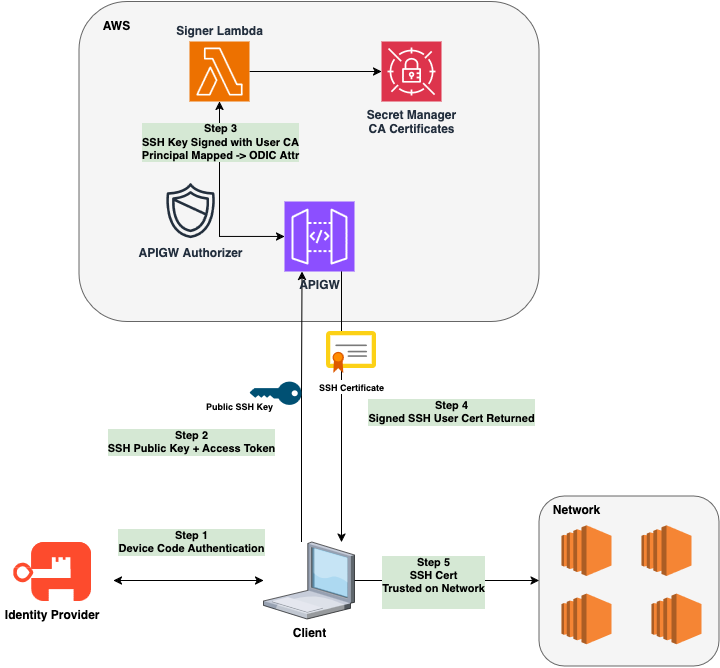
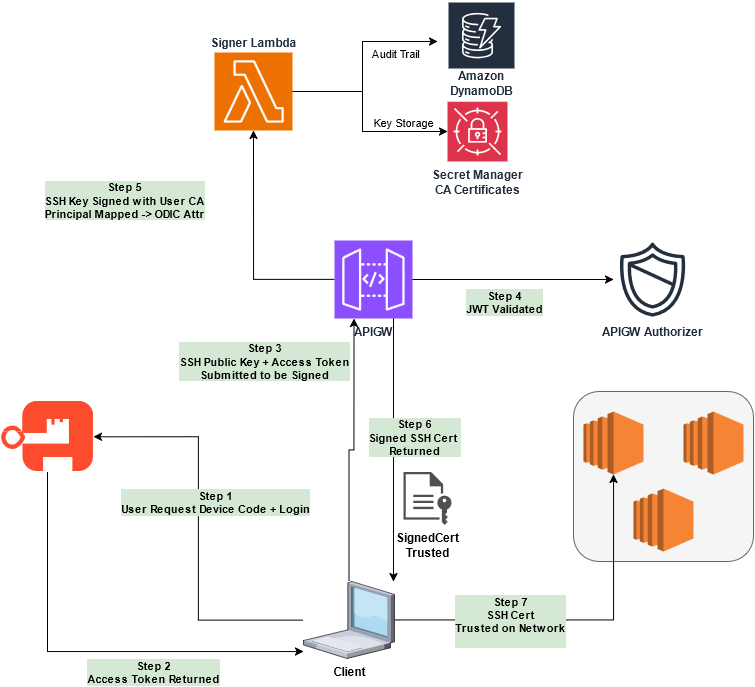
Add dynmodb audit trail (#8)
* init dynamodb audit

* add event

* add NewDb method

* add audit repo dep and use slog

* add new v2 deps

* rework write test

* adding dynamodb tf

* remove id generation. Using SUB Hash Key and SignedAt Sort Key

* update audit trail attr mapping

* add terraform provider

* fix add env var and table key name format

* update docs

* fmt

* Add mock repo for test

diff --git a/cmd/lambda/main.go b/cmd/lambda/main.go
@@ -3,8 +3,7 @@ package main
 import (
 	"context"
 	"encoding/json"
-	"fmt"
-	"log"
+	"log/slog"
 	"os"
 	"time"
 
@@ -19,6 +18,7 @@ import (
 type LambdaDeps struct {
 	Signer          signer.Signer
 	PrincipalMapper signer.PrincipalMapper
+	AuditRepo       AuditWriter
 }
 
 func convertClaims(stringClaims map[string]string) map[string]interface{} {
@@ -40,7 +40,7 @@ func convertClaims(stringClaims map[string]string) map[string]interface{} {
 func NewHandler(deps LambdaDeps) func(ctx context.Context, event events.APIGatewayV2HTTPRequest) (events.APIGatewayV2HTTPResponse, error) {
 	return func(ctx context.Context, event events.APIGatewayV2HTTPRequest) (events.APIGatewayV2HTTPResponse, error) {
 
-		fmt.Println("Starting Aegis Signer Lambda function...from HANDLER")
+		slog.Info("Starting Aegis Signer Lambda function")
 		const certificateExpiration = 24 * time.Hour
 
 		// Massage the JWT claims to map[string]interface{}
@@ -53,26 +53,45 @@ func NewHandler(deps LambdaDeps) func(ctx context.Context, event events.APIGatew
 		// Map the JWT claims to SSH principals
 		principals, err := deps.PrincipalMapper.Map(interfaceClaims)
 		if err != nil {
-			log.Printf("failed to map principals from token: %v", err)
+			slog.Error("failed to map principals from token", "error", err)
 			return events.APIGatewayV2HTTPResponse{StatusCode: 401, Body: "principal mapping failed"}, nil
 		}
 
 		// Parse the public key from the request body
 		pubKey, _, _, _, err := ssh.ParseAuthorizedKey([]byte(event.Body))
 		if err != nil {
-			log.Printf("failed to parse submitted public key: %v", err)
+			slog.Error("failed to parse submitted public key", "error", err)
 			return events.APIGatewayV2HTTPResponse{StatusCode: 400, Body: "invalid public key"}, nil
 		}
 
 		// Sign the certificate using the Signer
 		userSSHCert, err := deps.Signer.Sign(uint32(ssh.UserCert), pubKey, principals, certificateExpiration)
 		if err != nil {
-			log.Printf("failed to sign certificate: %v", err)
+			slog.Error("failed to sign certificate", "error", err)
 			return events.APIGatewayV2HTTPResponse{StatusCode: 500, Body: "failed to sign certificate"}, nil
 		}
 
 		// Return the SSH certificate in response
 		certString := string(ssh.MarshalAuthorizedKey(userSSHCert))
+
+		// Write event to audit trail
+		keySignEvent := KeySignEvent{
+			SignedAt:    time.Now().UTC(),
+			PublicKey:   string(ssh.MarshalAuthorizedKey(pubKey)),
+			Certificate: certString,
+			Principals:  principals,
+			SourceIp:    event.RequestContext.HTTP.SourceIP,
+			UserAgent:   event.RequestContext.HTTP.UserAgent,
+			Sub:         event.RequestContext.Authorizer.JWT.Claims["sub"],
+			Aud:         event.RequestContext.Authorizer.JWT.Claims["aud"],
+			ExpiresAt:   time.Unix(int64(userSSHCert.ValidBefore), 0).UTC(),
+		}
+
+		if err := deps.AuditRepo.Write(keySignEvent); err != nil {
+			slog.Error("Failed to write audit log", "error", err)
+			slog.Info("Audit Event", "data", keySignEvent)
+		}
+
 		return events.APIGatewayV2HTTPResponse{
 			StatusCode: 200,
 			Body:       certString,
@@ -85,57 +104,68 @@ func NewHandler(deps LambdaDeps) func(ctx context.Context, event events.APIGatew
 
 func main() {
 
-	fmt.Println("Starting Aegis Signer Lambda function...from MAIN")
+	// Load env vars
+
+	secret_name := os.Getenv("USER_CA_KEY_NAME")
+	jmesPathExpression := os.Getenv("JSME_PATH_EXPRESSION")
+	dynamoDbTableName := os.Getenv("DYNAMO_DB_TABLE")
+
 	// Create a new AWS session
 	sess, err := session.NewSession()
 	if err != nil {
-		log.Printf("failed to create AWS session: %v", err)
+		slog.Error("failed to create AWS session", "error", err)
 		return
 	}
-
-	secret_name := os.Getenv("USER_CA_KEY_NAME")
 
 	// Load the certificate signer from AWS Secrets Manager
 	caCert, err := GetSecretFromSecretsManager(sess, secret_name)
 	if err != nil {
-		log.Printf("failed to load cert signer: %v", err)
+		slog.Error("failed to load cert signer", "error", err)
 		return
 	}
 
 	// Create a new SSH signer from the private key
 	caCertSigner, err := ssh.ParsePrivateKey([]byte(caCert))
 	if err != nil {
-		log.Printf("failed to parse private key: %v", err)
+		slog.Error("failed to parse private key", "error", err)
 		return
 	}
 
 	// Load JSME Expressions from environment variable
-	jmesPathExpression := os.Getenv("JSME_PATH_EXPRESSION")
+
 	if jmesPathExpression == "" {
-		log.Printf("failed to load JMESPath expressions from environment variable")
+		slog.Error("failed to load JMESPath expressions from environment variable")
 		return
 	}
 
 	// Check if any expressions were provided
 	if len(jmesPathExpression) == 0 {
-		log.Printf("no JMESPath expressions provided")
+		slog.Error("no JMESPath expressions provided")
 		return
 	}
 
 	// Create JSMEPathPrincipalMapper
 	principalMapper, err := signer.NewJMESPathPrincipalMapper(jmesPathExpression)
 	if err != nil {
-		log.Printf("failed to create JMESPathPrincipalMapper: %v", err)
+		slog.Error("failed to create JMESPathPrincipalMapper", "error", err)
 		return
 	}
 
 	// // Initialize the SSH signer
 	sshSigner := signer.NewSSHCASigner(caCertSigner)
 
+	// Init Audit Writer
+	dynmoDbAuditStore, err := NewDynamoDbAuditStore(dynamoDbTableName)
+	if err != nil {
+		slog.Error("failed to create Dynamodb audit store", "error", err)
+		return
+	}
+
 	// Inject dependencies into LambdaDeps
 	deps := LambdaDeps{
 		Signer:          sshSigner,
 		PrincipalMapper: principalMapper,
+		AuditRepo:       dynmoDbAuditStore,
 	}
 
 	// Initialize the handler with injected dependencies

diff --git a/cmd/lambda/db.go b/cmd/lambda/db.go
@@ -1,0 +1,79 @@
+package main
+
+import (
+	"context"
+	"time"
+
+	"github.com/aws/aws-sdk-go-v2/aws"
+	"github.com/aws/aws-sdk-go-v2/config"
+	"github.com/aws/aws-sdk-go-v2/service/dynamodb"
+	"github.com/aws/aws-sdk-go-v2/service/dynamodb/types"
+)
+
+type AuditWriter interface {
+	Write(event KeySignEvent) error
+}
+
+type KeySignEvent struct {
+	ID          string    // Timestamp + SUB
+	SignedAt    time.Time // Timestamp of the signing event
+	PublicKey   string    // Original public key
+	Certificate string    // Signed certificate
+	Principals  []string  // List of SSH principals
+	SourceIp    string    // IP address where the request came from
+	UserAgent   string    // Optional: User agent of the requestor
+	Sub         string    // Subject (user ID)
+	Aud         string    // Audience (who this was issued for)
+	ExpiresAt   time.Time // Optional: for TTL
+}
+
+type DynamoClient interface {
+	PutItem(ctx context.Context, input *dynamodb.PutItemInput, optFns ...func(*dynamodb.Options)) (*dynamodb.PutItemOutput, error)
+}
+
+type DynamoAuditStore struct {
+	Client    DynamoClient
+	TableName string
+}
+
+func NewDynamoDbAuditStore(tableName string) (*DynamoAuditStore, error) {
+	cfg, err := config.LoadDefaultConfig(context.TODO())
+	if err != nil {
+		return nil, err
+	}
+
+	dbClient := dynamodb.NewFromConfig(cfg)
+
+	return &DynamoAuditStore{
+		Client:    dbClient,
+		TableName: tableName,
+	}, nil
+}
+
+func (store *DynamoAuditStore) Write(event KeySignEvent) error {
+
+	item := map[string]types.AttributeValue{
+		"SignedAt":    &types.AttributeValueMemberS{Value: event.SignedAt.Format(time.RFC3339)},
+		"PublicKey":   &types.AttributeValueMemberS{Value: event.PublicKey},
+		"Certificate": &types.AttributeValueMemberS{Value: event.Certificate},
+		"SourceIp":    &types.AttributeValueMemberS{Value: event.SourceIp},
+		"Sub":         &types.AttributeValueMemberS{Value: event.Sub},
+		"Aud":         &types.AttributeValueMemberS{Value: event.Aud},
+		"ExpiresAt":   &types.AttributeValueMemberS{Value: event.ExpiresAt.Format(time.RFC3339)},
+		"UserAgent":   &types.AttributeValueMemberS{Value: event.UserAgent},
+	}
+
+	if len(event.Principals) > 0 {
+		principals := make([]types.AttributeValue, len(event.Principals))
+		for i, p := range event.Principals {
+			principals[i] = &types.AttributeValueMemberS{Value: p}
+		}
+		item["Principals"] = &types.AttributeValueMemberL{Value: principals}
+	}
+
+	_, err := store.Client.PutItem(context.TODO(), &dynamodb.PutItemInput{
+		TableName: aws.String(store.TableName),
+		Item:      item,
+	})
+	return err
+}

diff --git a/cmd/lambda/db_test.go b/cmd/lambda/db_test.go
@@ -1,0 +1,65 @@
+package main
+
+import (
+	"context"
+	"testing"
+	"time"
+
+	"github.com/aws/aws-sdk-go-v2/service/dynamodb"
+	"github.com/aws/aws-sdk-go-v2/service/dynamodb/types"
+	"github.com/stretchr/testify/assert"
+	"github.com/stretchr/testify/require"
+)
+
+// Mock for the DynamoDB client interface
+type mockDynamoClient struct {
+	PutItemFunc func(ctx context.Context, input *dynamodb.PutItemInput, optFns ...func(*dynamodb.Options)) (*dynamodb.PutItemOutput, error)
+}
+
+func (m *mockDynamoClient) PutItem(ctx context.Context, input *dynamodb.PutItemInput, optFns ...func(*dynamodb.Options)) (*dynamodb.PutItemOutput, error) {
+	if m.PutItemFunc != nil {
+		return m.PutItemFunc(ctx, input, optFns...)
+	}
+	return &dynamodb.PutItemOutput{}, nil
+}
+
+func TestWriteAuditEvent(t *testing.T) {
+	signedAt := time.Now()
+
+	var actualInput *dynamodb.PutItemInput
+
+	mockClient := &mockDynamoClient{
+		PutItemFunc: func(ctx context.Context, input *dynamodb.PutItemInput, optFns ...func(*dynamodb.Options)) (*dynamodb.PutItemOutput, error) {
+			actualInput = input
+			return &dynamodb.PutItemOutput{}, nil
+		},
+	}
+
+	store := &DynamoAuditStore{
+		Client:    mockClient,
+		TableName: "audit-table",
+	}
+
+	event := KeySignEvent{
+		SignedAt:    signedAt,
+		PublicKey:   "ssh-ed25519 AAA...",
+		Certificate: "ssh-ed25519-cert AAA...",
+		Principals:  []string{"alice", "bob"},
+		SourceIp:    "192.168.1.1",
+		UserAgent:   "curl/7.79.1",
+		Sub:         "test-user",
+		Aud:         "service-x",
+		ExpiresAt:   time.Now().Add(time.Hour * 12),
+	}
+
+	err := store.Write(event)
+	assert.NoError(t, err)
+
+	require.NotNil(t, actualInput)
+	assert.Equal(t, "audit-table", *actualInput.TableName)
+	assert.Contains(t, actualInput.Item, "SignedAt")
+
+	// Check some key fields
+	assert.Equal(t, &types.AttributeValueMemberS{Value: "test-user"}, actualInput.Item["Sub"])
+	assert.Equal(t, &types.AttributeValueMemberS{Value: "ssh-ed25519 AAA..."}, actualInput.Item["PublicKey"])
+}

diff --git a/cmd/lambda/main_test.go b/cmd/lambda/main_test.go
@@ -28,6 +28,12 @@ func generateSSHKey() (*rsa.PrivateKey, *ssh.PublicKey, error) {
 	return privateKey, &publicKey, nil
 }
 
+type MockAuditRepo struct{}
+
+func (a *MockAuditRepo) Write(event KeySignEvent) error {
+	return nil
+}
+
 func TestLambdaHandlerWithStringClaims(t *testing.T) {
 	// Shared setup
 	caPrivateKey, _, err := generateSSHKey()
@@ -74,6 +80,7 @@ func TestLambdaHandlerWithStringClaims(t *testing.T) {
 			handler := NewHandler(LambdaDeps{
 				Signer:          sshSigner,
 				PrincipalMapper: principalMapper,
+				AuditRepo:       &MockAuditRepo{},
 			})
 
 			event := events.APIGatewayV2HTTPRequest{

diff --git a/README.md b/README.md
@@ -4,6 +4,8 @@ Aegis is a serverless SSH certificate authority built on AWS Lambda that simplif
 
 Clients authenticate using the OIDC Device Authorization Flow. After successful authentication, the user's public key is sent to the Aegis API for signing. The signing function uses the OIDC ID token to map user attributes (e.g., email) to the SSH certificate's principal field.
 
+All signing actions are recorded in an audit trail stored in DynamoDB, enabling traceability and accountability for each certificate issued.
+
 This system provides short-term credentials and simplifies user management, making it easier to control access and minimize long-term key usage.
 
 ---
